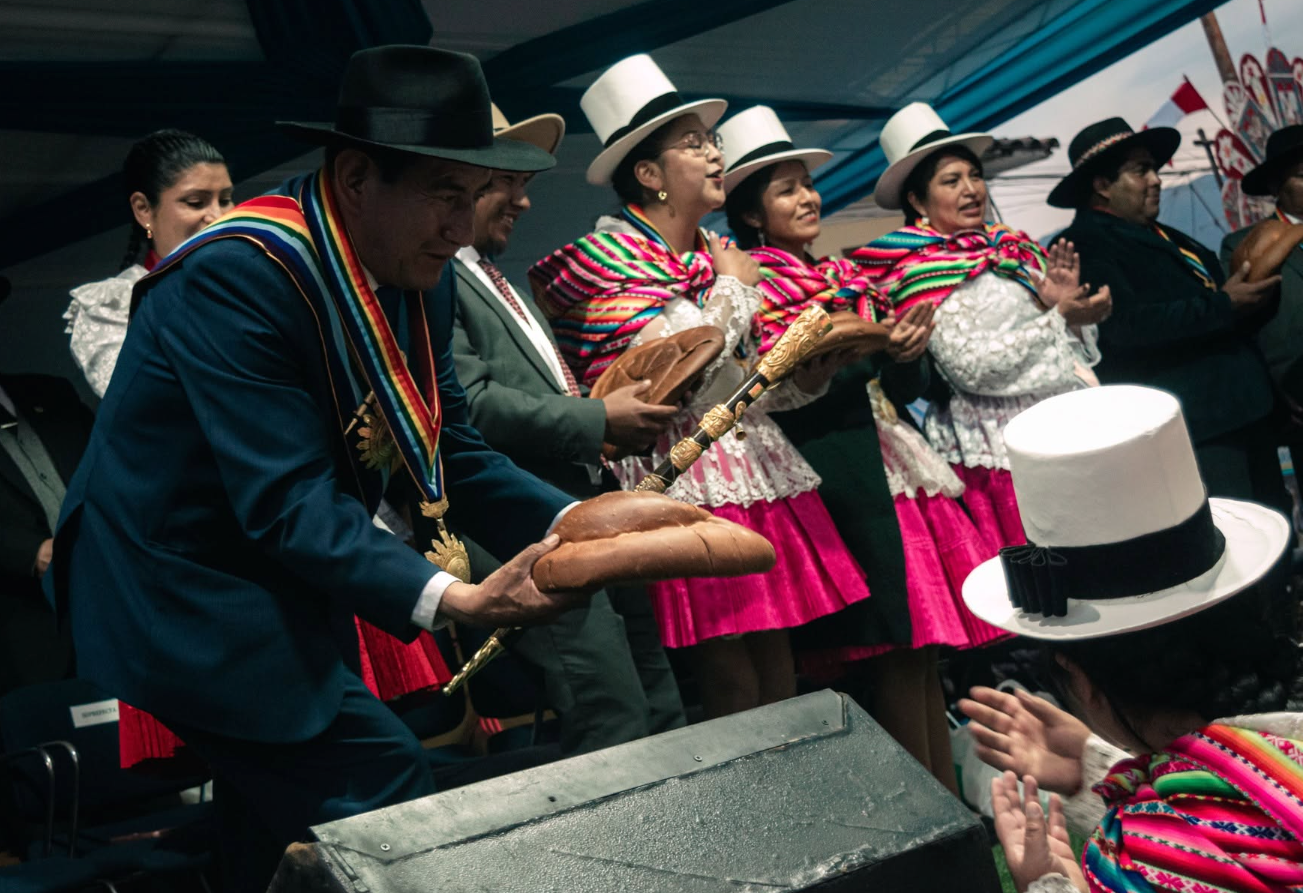
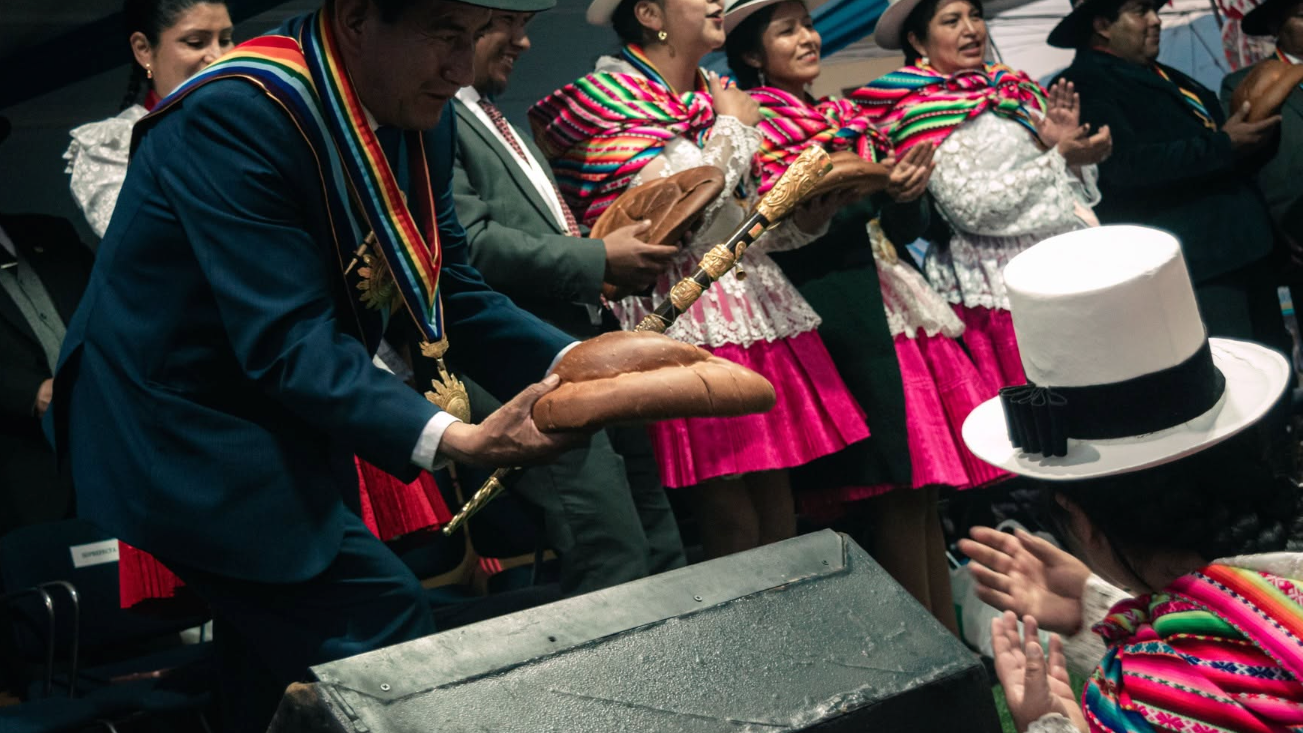
Recortar barra superior con lupas de imagen.png y forzar refresco de cache de imagenes ?v=3

diff --git a/index.html b/index.html
@@ -2735,46 +2735,46 @@
 
           <!-- 2. Fuegos Artificiales -->
           <div class="runway-photo-card">
-            <img src="imagenes/Galeria/fujeros artificiales fiestapatraon de san jerinimo.jpg"
+            <img src="imagenes/Galeria/fujeros artificiales fiestapatraon de san jerinimo.jpg?v=3"
               alt="Fuegos artificiales de la Festividad Patronal de San Jerónimo" loading="lazy" />
           </div>
 
           <!-- 3. Fogata Patronal -->
           <div class="runway-photo-card">
-            <img src="imagenes/Galeria/fogatafiestrapatronales.png"
+            <img src="imagenes/Galeria/fogatafiestrapatronales.png?v=3"
               alt="Festividad patronal nocturna y fuegos en San Jerónimo" loading="lazy" />
           </div>
 
           <!-- 4. Caporales -->
           <div class="runway-photo-card">
-            <img src="imagenes/Galeria/caporales.jpg" alt="Caporales de San Jerónimo" loading="lazy" />
+            <img src="imagenes/Galeria/caporales.jpg?v=3" alt="Caporales de San Jerónimo" loading="lazy" />
           </div>
 
           <!-- 5. Estatua Doctor Patrón -->
           <div class="runway-photo-card">
-            <img src="imagenes/Galeria/estatua doctorosanjeronimo.png" alt="Estatua del Doctor Patrón San Jerónimo"
+            <img src="imagenes/Galeria/estatua doctorosanjeronimo.png?v=3" alt="Estatua del Doctor Patrón San Jerónimo"
               loading="lazy" />
           </div>
 
           <!-- 6. Cuadrilla de Danzantes -->
           <div class="runway-photo-card">
-            <img src="imagenes/Galeria/dansss.jpg" alt="Cuadrilla de danzantes jeronimianos" loading="lazy" />
+            <img src="imagenes/Galeria/dansss.jpg?v=3" alt="Cuadrilla de danzantes jeronimianos" loading="lazy" />
           </div>
 
           <!-- 7. Patrimonio e Identidad Cultural -->
           <div class="runway-photo-card">
-            <img src="imagenes/Galeria/iamgen.png" alt="Patrimonio e Identidad Cultural de San Jerónimo"
+            <img src="imagenes/Galeria/iamgen.png?v=3" alt="Patrimonio e Identidad Cultural de San Jerónimo"
               loading="lazy" />
           </div>
 
           <!-- 8. Expresiones Tradicionales -->
           <div class="runway-photo-card">
-            <img src="imagenes/Galeria/imagen.png" alt="Expresiones culturales y memoria histórica" loading="lazy" />
+            <img src="imagenes/Galeria/imagen.png?v=3" alt="Expresiones culturales y memoria histórica" loading="lazy" />
           </div>
 
           <!-- 9. Encuentro e Identidad -->
           <div class="runway-photo-card">
-            <img src="imagenes/Galeria/Iamgen.png" alt="Cátedra San Jerónimo y comunidades ancestrales"
+            <img src="imagenes/Galeria/Iamgen.png?v=3" alt="Cátedra San Jerónimo y comunidades ancestrales"
               loading="lazy" />
           </div>
         </div>
